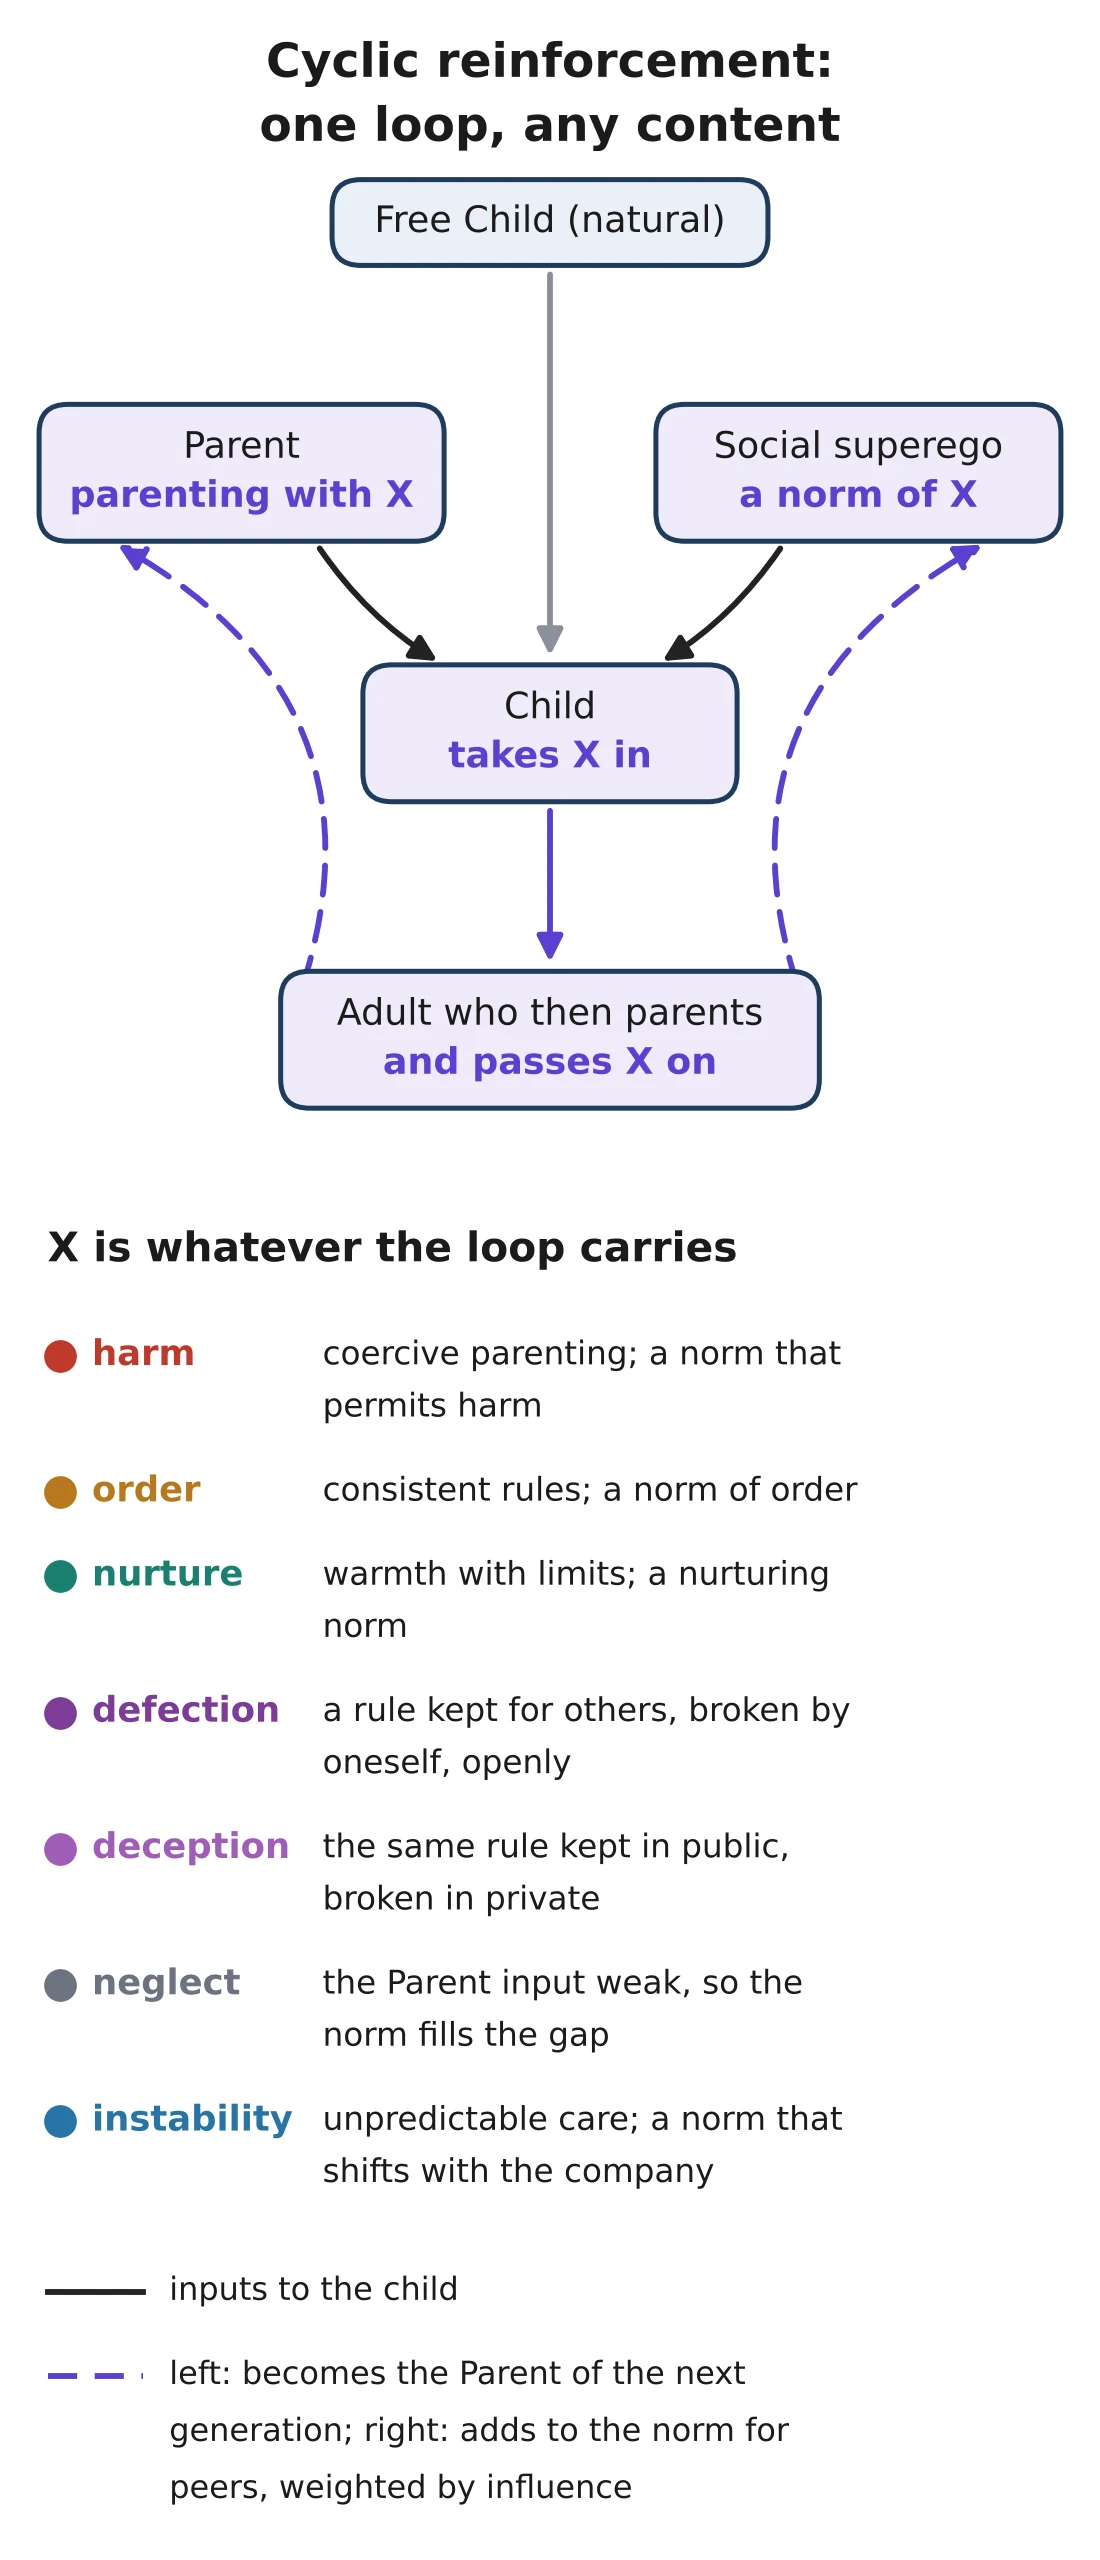
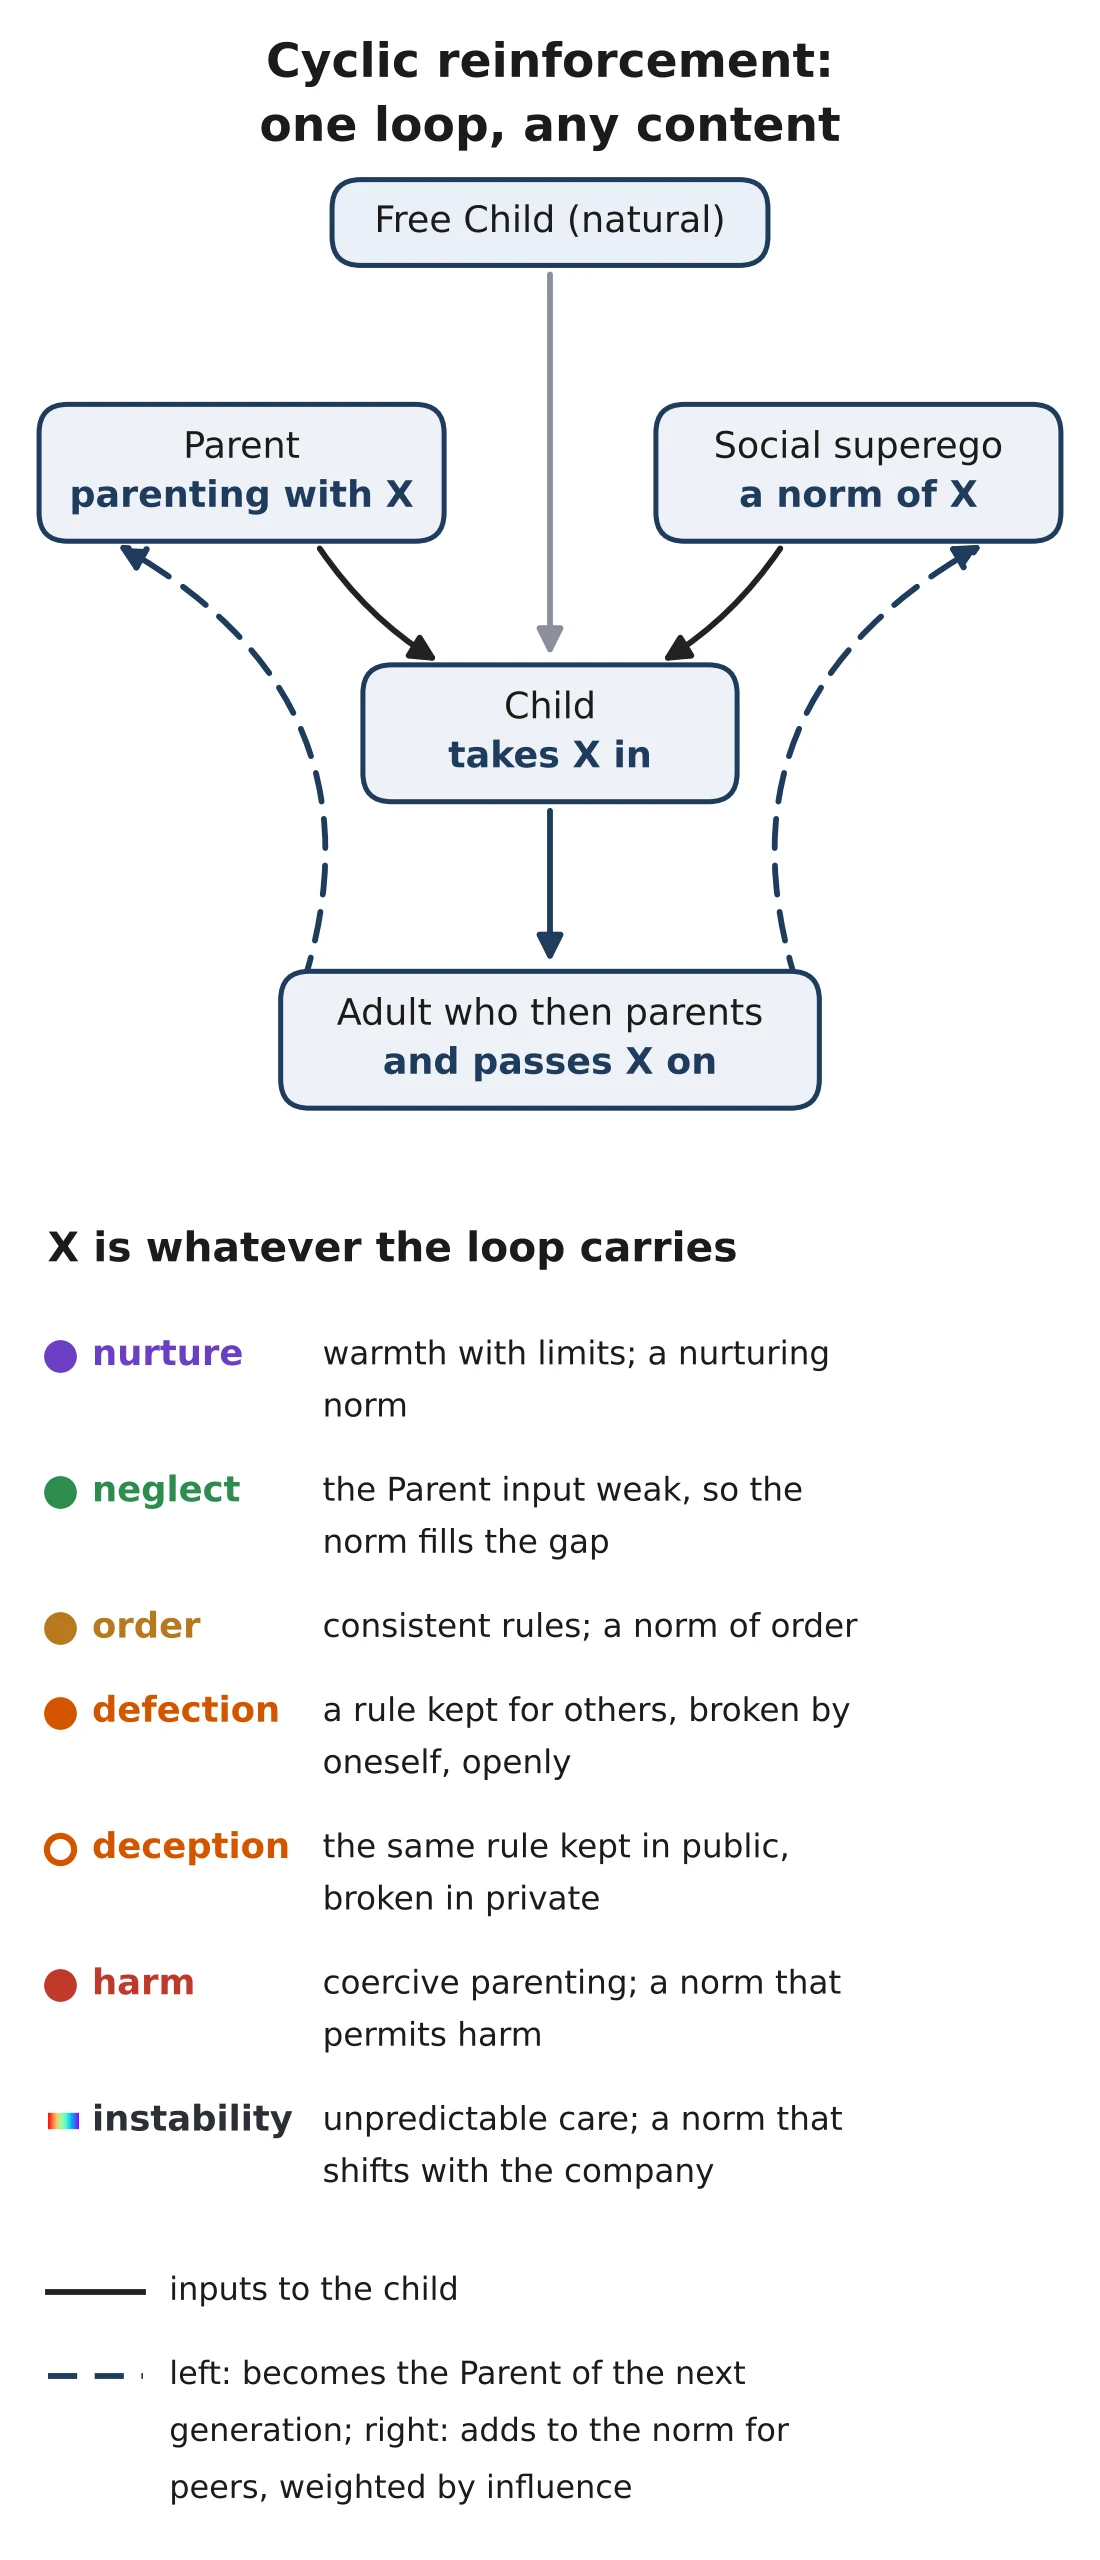
Site: the loop's contents coloured by the felt spectrum
The generic loop on paper IV's card colours what X can be by the series'
spectrum, violet at the top to red: nurture violet, neglect green, order
amber, defection and deception orange (deception hollow), harm red, and
instability as the whole spectrum. X itself is navy, no longer violet.

Claude-Session: https://claude.ai/code/session_01P28EcMgMgxzGoCsmxLXbUm

diff --git a/index.html b/index.html
@@ -382,9 +382,9 @@ The Peace Papers</a>
 <p style="margin: 14px 0 0; font-size: 17px; line-height: 1.65; color: #C3C8D6">Harm, order, nurture and defection repeat across generations and through peer groups. This article proposes cyclic reinforcement, a model in which a loop's output strengthens its own inputs in the next generation, in four forms: cyclic harm, cyclic order, cyclic nurture and cyclic defection.</p>
 <figure class="card-fig" style="margin: 18px 0 0">
 <a href="assets/cards/iv-full.webp" aria-label="Open the diagram full size" style="display: block; border-radius: 12px; overflow: hidden; border: 1px solid rgba(255,255,255,0.10); background: #0A0D16">
-<picture><source media="(max-width: 640px)" srcset="assets/cards/iv-phone.webp"><img src="assets/cards/iv.webp" alt="A loop diagram on a light ground titled Cyclic reinforcement: one loop, any content. Two input boxes, a Parent, parenting with X, and a social superego, a norm of X, send solid arrows, labelled parenting and social pressure, into a Child box, takes X in; a Free Child (natural) box at the top sends a grey arrow down into the Child as its starting nature. The Child leads down to an Adult who then parents and passes X on, and dashed arrows run from the adult back up to the Parent box and to the social superego box. A legend reads: X is whatever the loop carries: harm, coercive parenting and a norm that permits harm; order, consistent rules and a norm of order; nurture, warmth with limits and a nurturing norm; defection, a rule kept for others and broken by oneself, openly; deception, the same rule kept in public and broken in private; neglect, the Parent input weak, so the norm fills the gap; instability, unpredictable care and a norm that shifts with the company. A key: solid lines are inputs to the child; dashed lines, on the left, becomes the Parent of the next generation, and on the right, adds to the norm for peers, weighted by influence." width="1400" height="740" loading="lazy" decoding="async" style="display: block; width: 100%; height: auto"></picture>
+<picture><source media="(max-width: 640px)" srcset="assets/cards/iv-phone.webp"><img src="assets/cards/iv.webp" alt="A loop diagram on a light ground titled Cyclic reinforcement: one loop, any content. Two input boxes, a Parent, parenting with X, and a social superego, a norm of X, send solid arrows, labelled parenting and social pressure, into a Child box, takes X in; a Free Child (natural) box at the top sends a grey arrow down into the Child as its starting nature. The Child leads down to an Adult who then parents and passes X on, and dashed arrows run from the adult back up to the Parent box and to the social superego box. A legend reads: X is whatever the loop carries, coloured by the felt spectrum from violet at the top to red: nurture, violet, warmth with limits and a nurturing norm; neglect, green, the Parent input weak, so the norm fills the gap; order, amber, consistent rules and a norm of order; defection, orange, a rule kept for others and broken by oneself, openly; deception, a hollow orange dot, the same rule kept in public and broken in private; harm, red, coercive parenting and a norm that permits harm; instability, a small bar of the whole spectrum, unpredictable care and a norm that shifts with the company. A key: solid lines are inputs to the child; dashed lines, on the left, becomes the Parent of the next generation, and on the right, adds to the norm for peers, weighted by influence." width="1400" height="740" loading="lazy" decoding="async" style="display: block; width: 100%; height: auto"></picture>
 </a>
-<figcaption style="margin: 10px 2px 0; font-size: 14px; line-height: 1.6; color: #9AA0B4"><strong>Cyclic reinforcement: one loop, any content (Interpretive; a hypothesis to test).</strong> The boxes use the ego states of transactional analysis: the Free Child is the child's natural self and the Parent is the parenting it receives. Two inputs shape the child: parenting, and the social superego, the internalised average of how the people around the child behave, weighted by their influence. As an adult the child parents the next generation (dashed, to the Parent) and adds to the norm for peers (dashed, to the norm), so whatever goes in, X, is passed on: harm, order, nurture, defection, deception, which is defection's hidden face, neglect, where a weak Parent input leaves the norm to fill the gap, or instability, care that swings and a norm that shifts with the company. <span style="color: #6F7690">The paper's Figure 1, drawn once for any content; tap to open it full size.</span></figcaption>
+<figcaption style="margin: 10px 2px 0; font-size: 14px; line-height: 1.6; color: #9AA0B4"><strong>Cyclic reinforcement: one loop, any content (Interpretive; a hypothesis to test).</strong> The boxes use the ego states of transactional analysis: the Free Child is the child's natural self and the Parent is the parenting it receives. Two inputs shape the child: parenting, and the social superego, the internalised average of how the people around the child behave, weighted by their influence. As an adult the child parents the next generation (dashed, to the Parent) and adds to the norm for peers (dashed, to the norm), so whatever goes in, X, is passed on: nurture; neglect, where a weak Parent input leaves the norm to fill the gap; order; defection, and deception, its hidden face; harm; or instability, care that swings and a norm that shifts with the company. The colours follow the series' felt spectrum, from violet, concern for others, through green, neutral, to red, the self-directed pole; instability spans it. <span style="color: #6F7690">The paper's Figure 1, drawn once for any content; tap to open it full size.</span></figcaption>
 </figure>
 <details class="abs">
 <summary><span class="when-closed">Read the abstract</span><span class="when-open">Hide the abstract</span> <svg width="14" height="14" viewBox="0 0 24 24" fill="none" stroke="currentColor" stroke-width="2" stroke-linecap="round" stroke-linejoin="round" aria-hidden="true"><path d="M6 9l6 6 6-6"></path></svg></summary>
